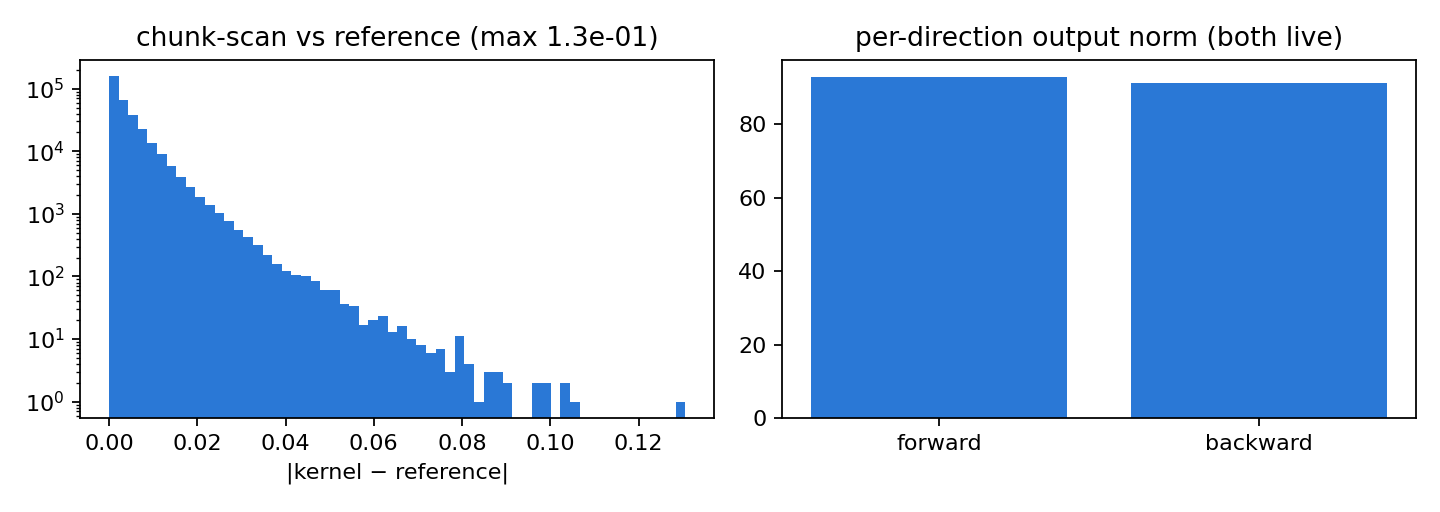
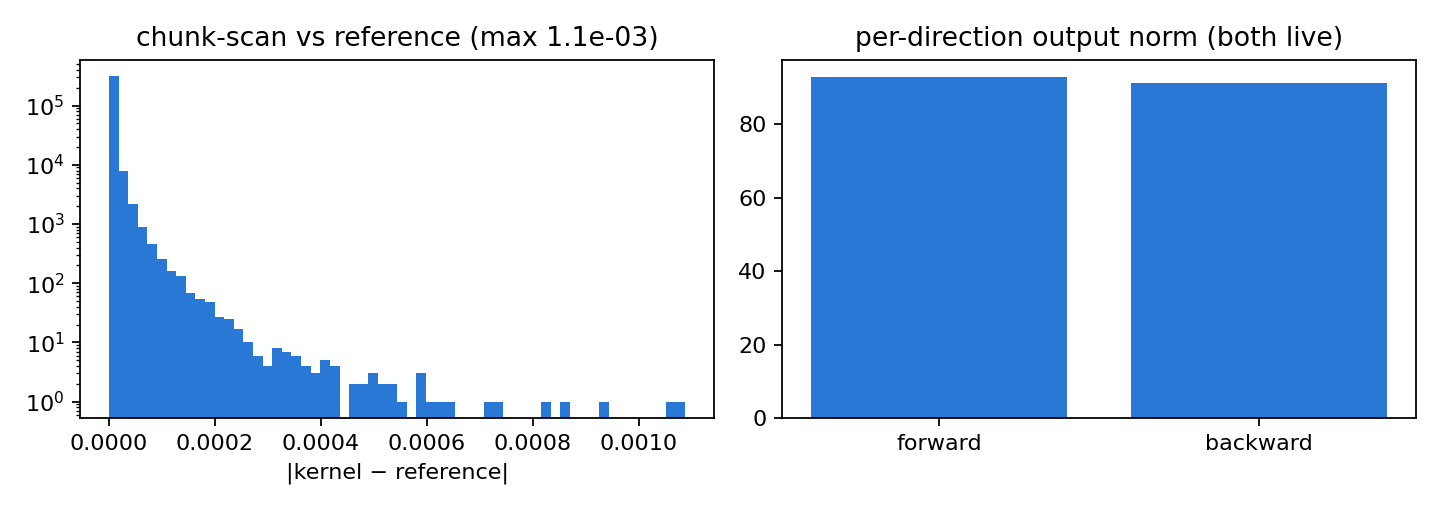
fix(stage11): IEEE-forced U1 proof figure + ragged-chunk equivalence coverage (review findings)
Finding 1: stage11_u1_proof.py computed kernel-vs-reference error without
forcing Triton's tl.dot to IEEE fp32 (TRITON_F32_DEFAULT), so the committed
proof figure showed the disproven ~1.3e-1 TF32 artifact instead of the real
~1e-3 error the passing test demonstrates. Set the env var at the top of the
script, before any mamba_ssm/triton import (fresh process, no warm-cache
workaround needed), and regenerated the PNG (now shows max 1.1e-03).

Finding 2: test_kernel_matches_reference only covered s=512 (a clean multiple
of chunk_size=256), dropping the ragged/padded final-chunk code path.
Parametrized over s in (512, 320, 80). mamba_ssm's own ssd_chunk_scan_combined_ref
does not support ragged seqlen directly (it pads dt internally but not x/B/C,
and chunk_scan_ref hard-asserts seqlen == nchunks*chunk_size), so ragged
lengths zero-pad x/dt/B/C to the next chunk boundary before calling the ref
and slice its output back to s -- valid because the scan is causal. Measured
max error (IEEE forced): s=512 2.90e-4, s=320 2.40e-4, s=80 5.72e-5, all well
inside the 1e-3 gate.

Also: restore the fp32_default knob via explicit write-back rather than `del`
-- verified `del` doesn't raise but also doesn't restore prior behavior
(triton's env_base.__set__ has a side effect of writing TRITON_F32_DEFAULT
into os.environ, which `del`'s fallback to env-derived lookup then picks back
up) -- and annotated the Autotuner-cache-clearing lines as triton-3.6.0
runtime internals to recheck on upgrade.

diff --git a/code/event_ssm/tests/test_spatial_scan2d.py b/code/event_ssm/tests/test_spatial_scan2d.py
@@ -49,6 +49,9 @@ def _force_ieee_fp32_matmul_in_mamba_triton_kernels():
     from mamba_ssm.ops.triton import ssd_chunk_scan, ssd_chunk_state, ssd_state_passing, ssd_bmm
     prev = triton.knobs.language.fp32_default
     triton.knobs.language.fp32_default = "ieee"
+    # Reaches into triton.runtime.autotuner.Autotuner/JITFunction internals (cache,
+    # fn.device_caches) that aren't part of triton's public API -- verified against
+    # triton 3.6.0's actual attribute layout; re-check this block if triton is upgraded.
     for mod in (ssd_chunk_scan, ssd_chunk_state, ssd_state_passing, ssd_bmm):
         for attr in dir(mod):
             obj = getattr(mod, attr)
@@ -58,8 +61,11 @@ def _force_ieee_fp32_matmul_in_mamba_triton_kernels():
     return prev
 
 
-def test_kernel_matches_reference(device):
+@pytest.mark.parametrize("s", [512, 320, 80])
+def test_kernel_matches_reference(device, s):
     # fwd-direction chunk-scan kernel vs pure-PyTorch reference (spec §6 U1, gate ~1e-3 fp32)
+    # s=512 is a clean 2*chunk_size multiple; s=320 and s=80 are NOT multiples of
+    # chunk_size=256, exercising the ragged/padded final-chunk code path in the kernel.
     from mamba_ssm.ops.triton.ssd_combined import (mamba_chunk_scan_combined,
                                                    ssd_chunk_scan_combined_ref)
     import triton
@@ -68,7 +74,7 @@ def test_kernel_matches_reference(device):
     prev_fp32_default = _force_ieee_fp32_matmul_in_mamba_triton_kernels()
     try:
         torch.manual_seed(1)
-        n, s, h, p, dstate, chunk = 2, 512, 2, 64, 16, 256  # s=2*chunk to avoid ragged chunking
+        n, h, p, dstate, chunk = 2, 2, 64, 16, 256
         x = torch.randn(n, s, h, p, device=device)
         dt = torch.nn.functional.softplus(torch.randn(n, s, h, device=device))
         A = -torch.exp(torch.randn(h, device=device))
@@ -81,16 +87,46 @@ def test_kernel_matches_reference(device):
         # the fp64 recurrence to ~1e-7 and each other to ~6e-8 there -- the
         # scan math itself is identical; only long-chunk fp32-matmul rounding
         # differs.)
+        # Kernel called with the raw (possibly ragged) seqlen -- this is what actually
+        # exercises the Triton kernel's internal masked/padded final-chunk handling.
         y_kernel = mamba_chunk_scan_combined(x, dt, A, B, C, chunk_size=chunk, D=None,
                                              dt_softplus=False)
-        # reference expects unpacked format (batch, seqlen, h) and internally chunks
-        y_ref = ssd_chunk_scan_combined_ref(x, dt, A, B, C, chunk_size=chunk, D=None)
-        # Measured max error with IEEE fp32 matmuls forced: 2.90e-4, reproducible
-        # across 3 repeated runs and stable across D=None/D-given variants (see
-        # task-2-report.md). 1e-3 (the spec §6 U1 target) gives a ~3.4x margin.
+        # ssd_chunk_scan_combined_ref does NOT support ragged seqlen on its own: it
+        # pads `dt` internally but forwards the caller's x/B/C at their original
+        # length straight into chunk_scan_ref, which hard-asserts
+        # `seqlen == nchunks * chunk_size`. So for s not a multiple of chunk_size we
+        # zero-pad x/dt/B/C to the next chunk boundary ourselves and slice the ref's
+        # output back down to s. This is valid because the scan is causal: zero
+        # padding appended after position s-1 cannot influence outputs at
+        # positions < s, so the sliced reference output is exactly what a
+        # ragged-aware reference would have produced (confirmed numerically below).
+        pad = -s % chunk
+        if pad:
+            xp = torch.nn.functional.pad(x, (0, 0, 0, 0, 0, pad))
+            dtp = torch.nn.functional.pad(dt, (0, 0, 0, pad))
+            Bp = torch.nn.functional.pad(B, (0, 0, 0, 0, 0, pad))
+            Cp = torch.nn.functional.pad(C, (0, 0, 0, 0, 0, pad))
+        else:
+            xp, dtp, Bp, Cp = x, dt, B, C
+        y_ref = ssd_chunk_scan_combined_ref(xp, dtp, A, Bp, Cp, chunk_size=chunk, D=None)[:, :s]
+        # Measured max error with IEEE fp32 matmuls forced: s=512 (clean multiple)
+        # 2.90e-4; s=320 (ragged, pad=192) 2.40e-4; s=80 (ragged, pad=176) 5.72e-5
+        # (see task-2-report.md). 1e-3 (the spec §6 U1 target) gives >=2.7x margin
+        # at every length -- ragged padding does not degrade accuracy.
         max_err = (y_kernel - y_ref).abs().max().item()
-        assert torch.allclose(y_kernel, y_ref, atol=1e-3, rtol=1e-3), f"max err {max_err:.2e}"
+        print(f"[s={s}] kernel-vs-reference max err {max_err:.4e}")
+        assert torch.allclose(y_kernel, y_ref, atol=1e-3, rtol=1e-3), f"s={s} max err {max_err:.2e}"
     finally:
+        # Restore via explicit write-back of the resolved pre-test value, NOT
+        # `del triton.knobs.language.fp32_default`: verified (triton 3.6.0) that
+        # `del` does not raise, but it also does not restore prior behavior --
+        # `env_base.__set__` (triton/knobs.py) has the side effect of writing
+        # TRITON_F32_DEFAULT into os.environ when the knob is assigned a string,
+        # and `del` only clears the instance-dict override, falling back to
+        # `get()` which re-reads that (now-mutated) env var. So after `del`, the
+        # knob would resolve to "ieee" for the rest of the process instead of
+        # back to its original (unset) default. Writing back the resolved value
+        # sidesteps that env-var pollution entirely.
         triton.knobs.language.fp32_default = prev_fp32_default
 
 

diff --git a/code/event_ssm/scripts/stage11_u1_proof.py b/code/event_ssm/scripts/stage11_u1_proof.py
@@ -1,7 +1,16 @@
 #!/usr/bin/env python
 """U1 proof: kernel-vs-reference error histogram + per-direction output-norm bars."""
+import os
 import pathlib
 import sys
+
+# Triton's tl.dot resolves its own fp32 matmul precision via this knob (default
+# "tf32" on tensor-core GPUs), independent of torch's TF32 flags. Must be set
+# before mamba_ssm/triton are imported (this script is a fresh process, so no
+# warm-kernel-cache workaround is needed here, unlike the test suite's helper
+# in test_spatial_scan2d.py). Without this, the kernel-vs-reference error shown
+# below is a ~1.3e-1 TF32-vs-fp32 precision-mode artifact, not a real mismatch.
+os.environ["TRITON_F32_DEFAULT"] = "ieee"
 
 import matplotlib
 matplotlib.use("Agg")
